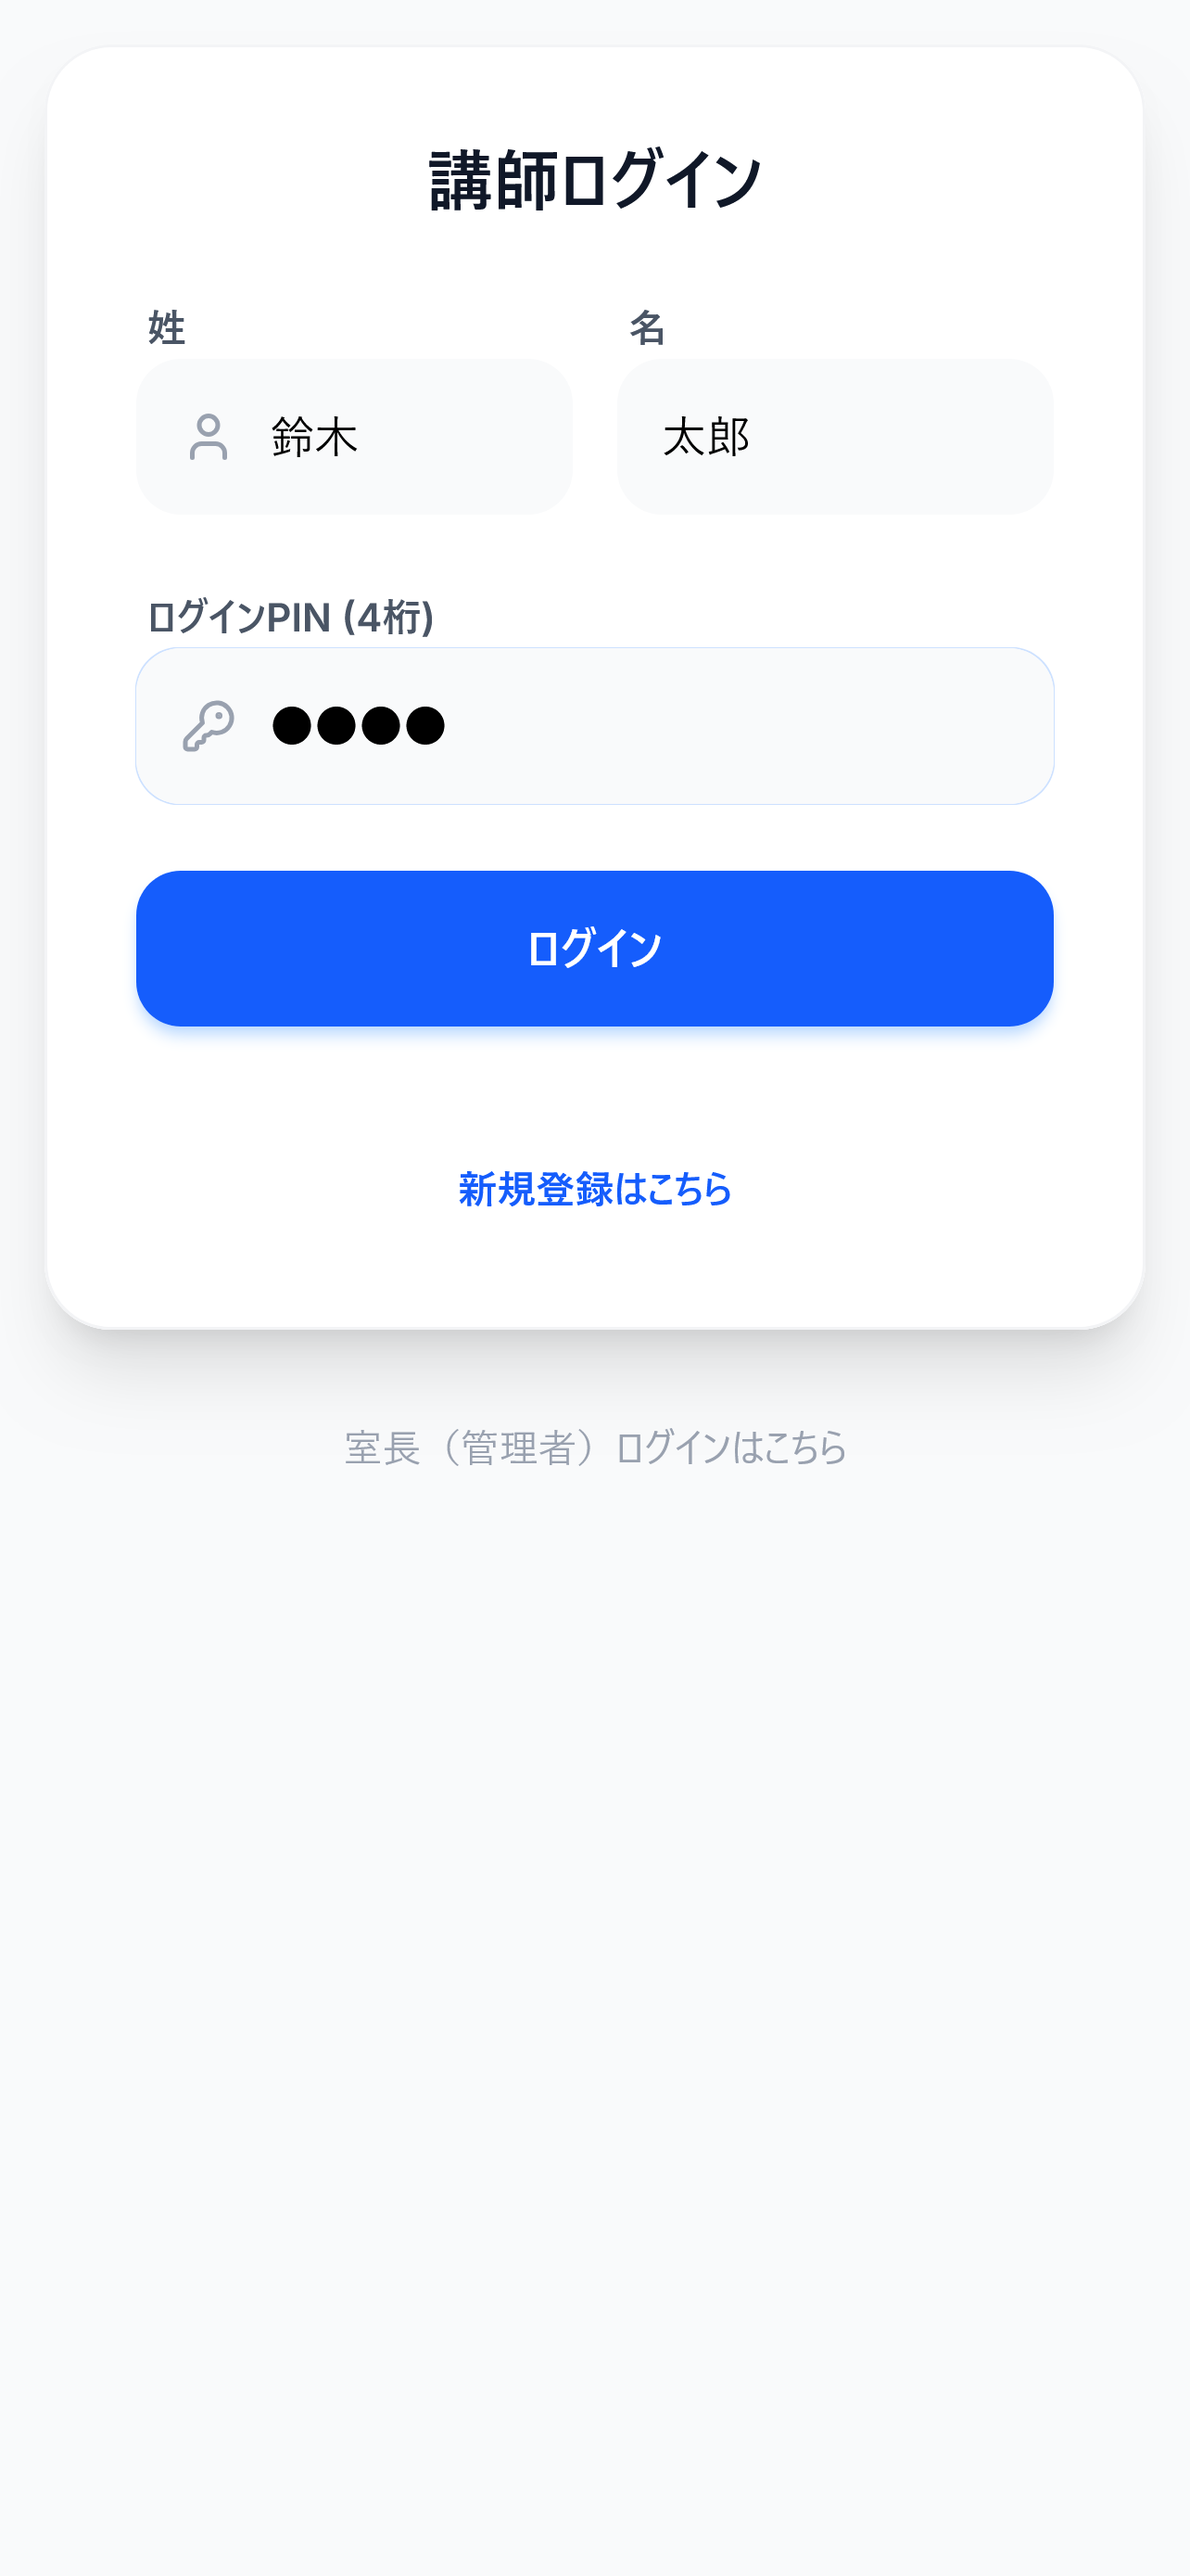
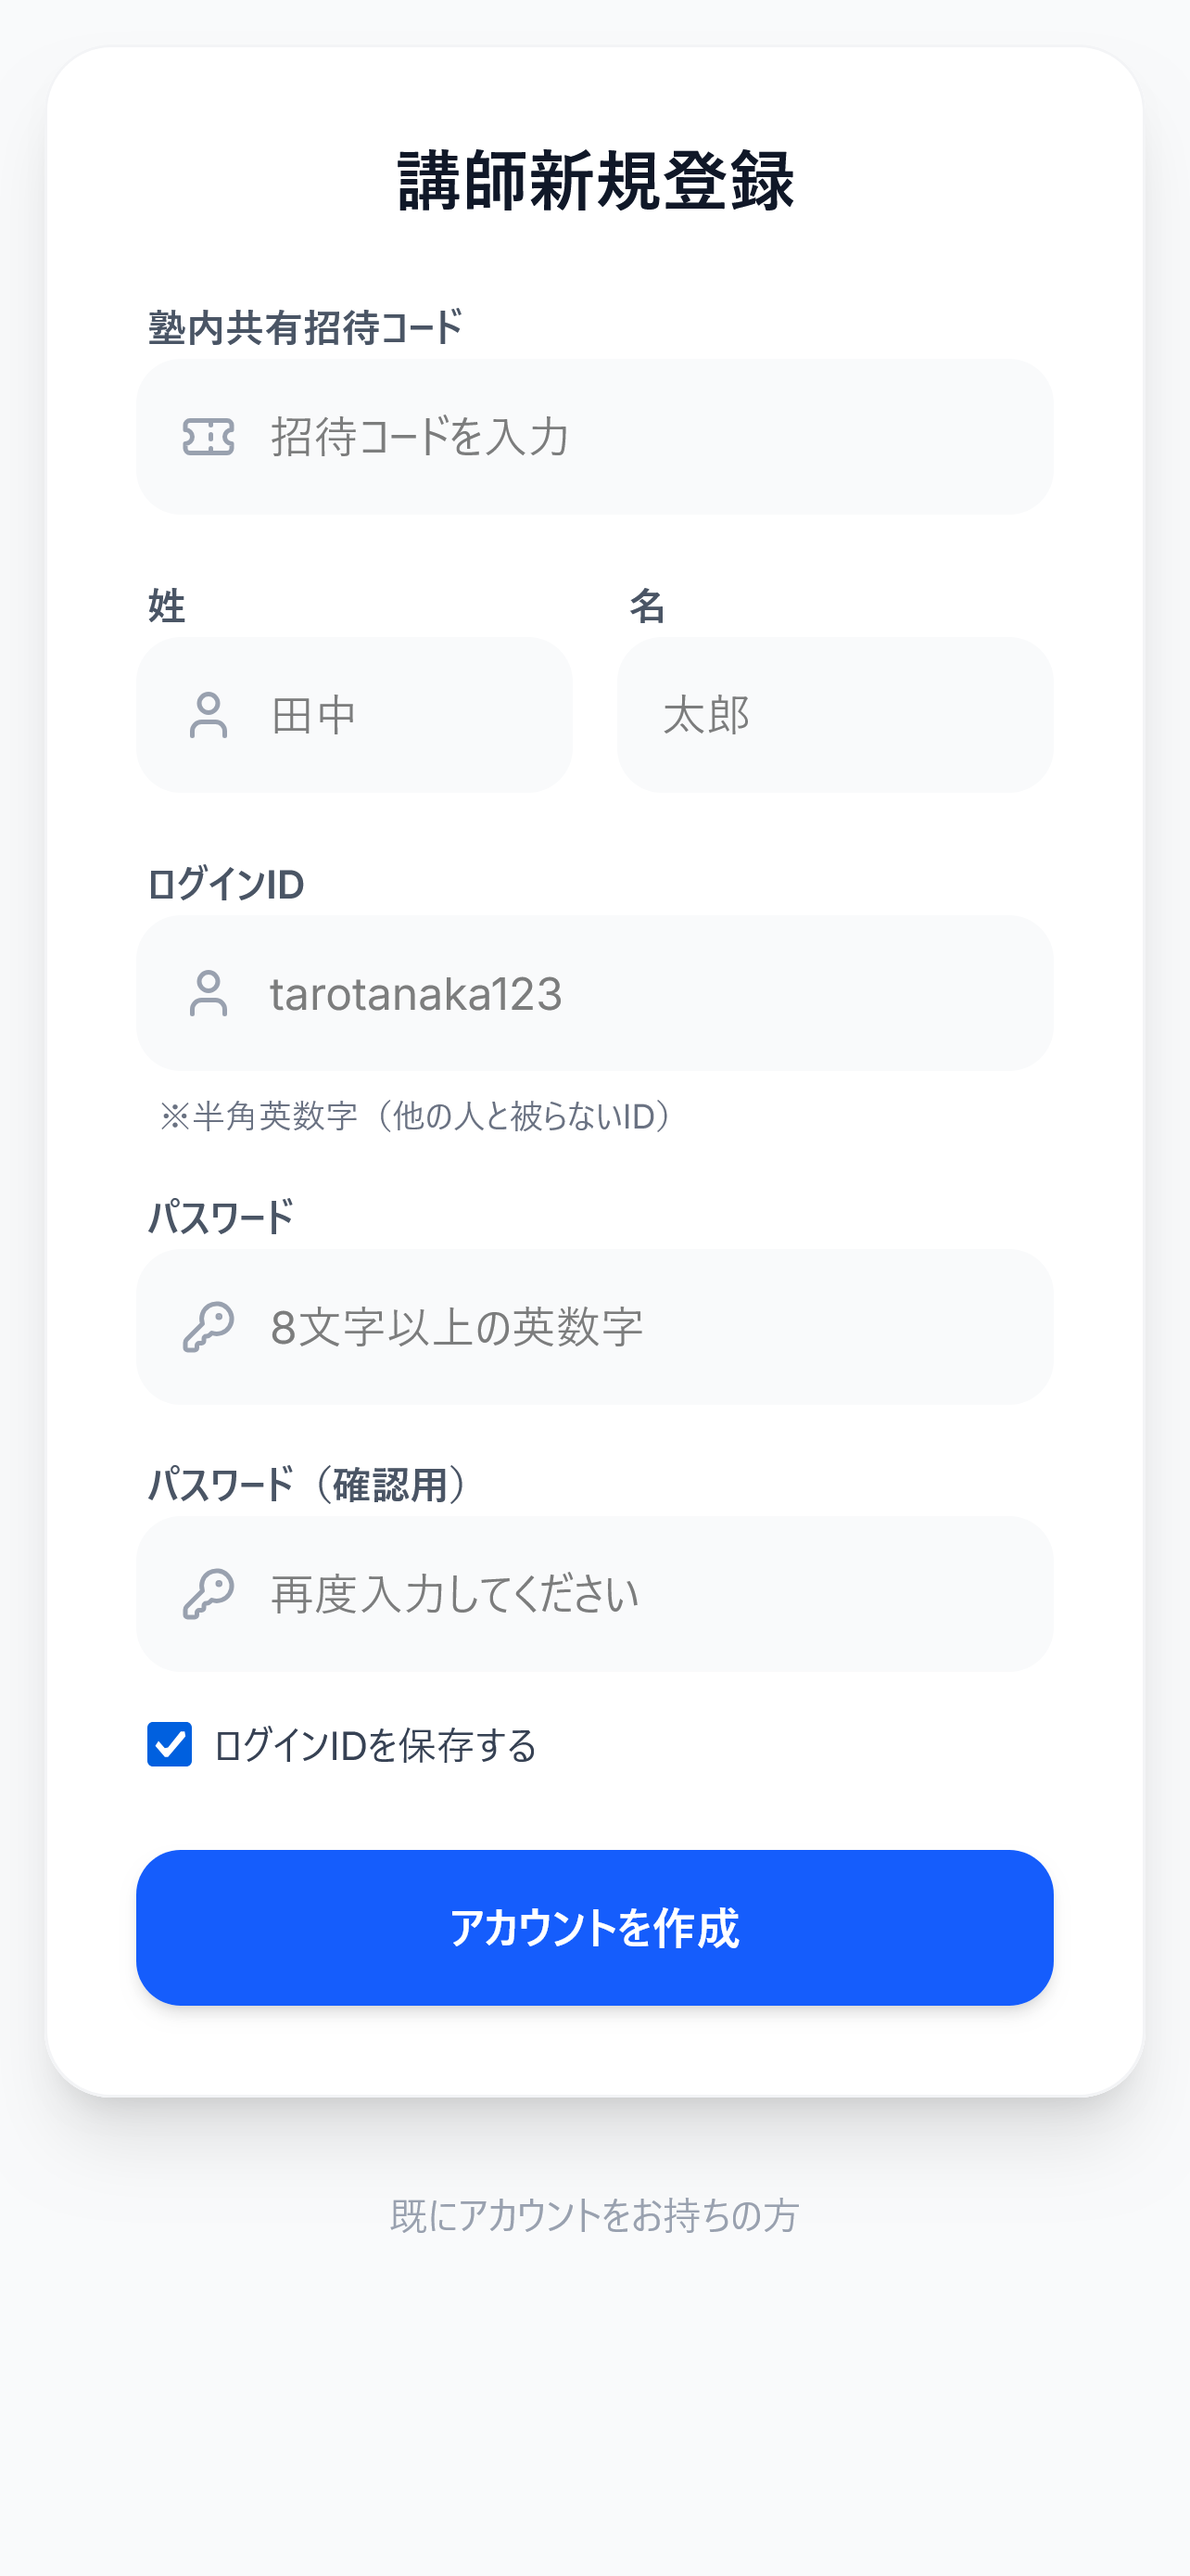
update : アカウントの作り方を修正

diff --git a/Tutor_Manual/Tutor_Manual.md b/Tutor_Manual/Tutor_Manual.md
@@ -12,7 +12,9 @@
 
 ![login1](./img/login_screen.png)
 
-講師新規登録という画面になるので**招待コード**及び**苗字**と**名前**、**ログイン用の4桁の数字**を入力して`アカウント作成`を押下。
+講師新規登録という画面になるので**招待コード**及び**苗字**と**名前**、**ID**と**パスワード**を入力して`アカウント作成`を押下。
+
+> `ログインIDを保存する`にチェックを付けておくのがお勧めです。
 
 ![register](./img/register_screen.png)
 
@@ -30,7 +32,7 @@
 
 ![login2](./img/login2_screen.png)
 
-[1-1. アカウント作成](### 1-1. アカウント作成)で登録した情報**苗字、名前、4桁の数字**を入力してログインしてください。
+[1-1. アカウント作成](### 1-1. アカウント作成)で登録した情報**ログインID**と**パスワード**を入力してログインしてください。
 
 ### 2-2. シフト提出
 
